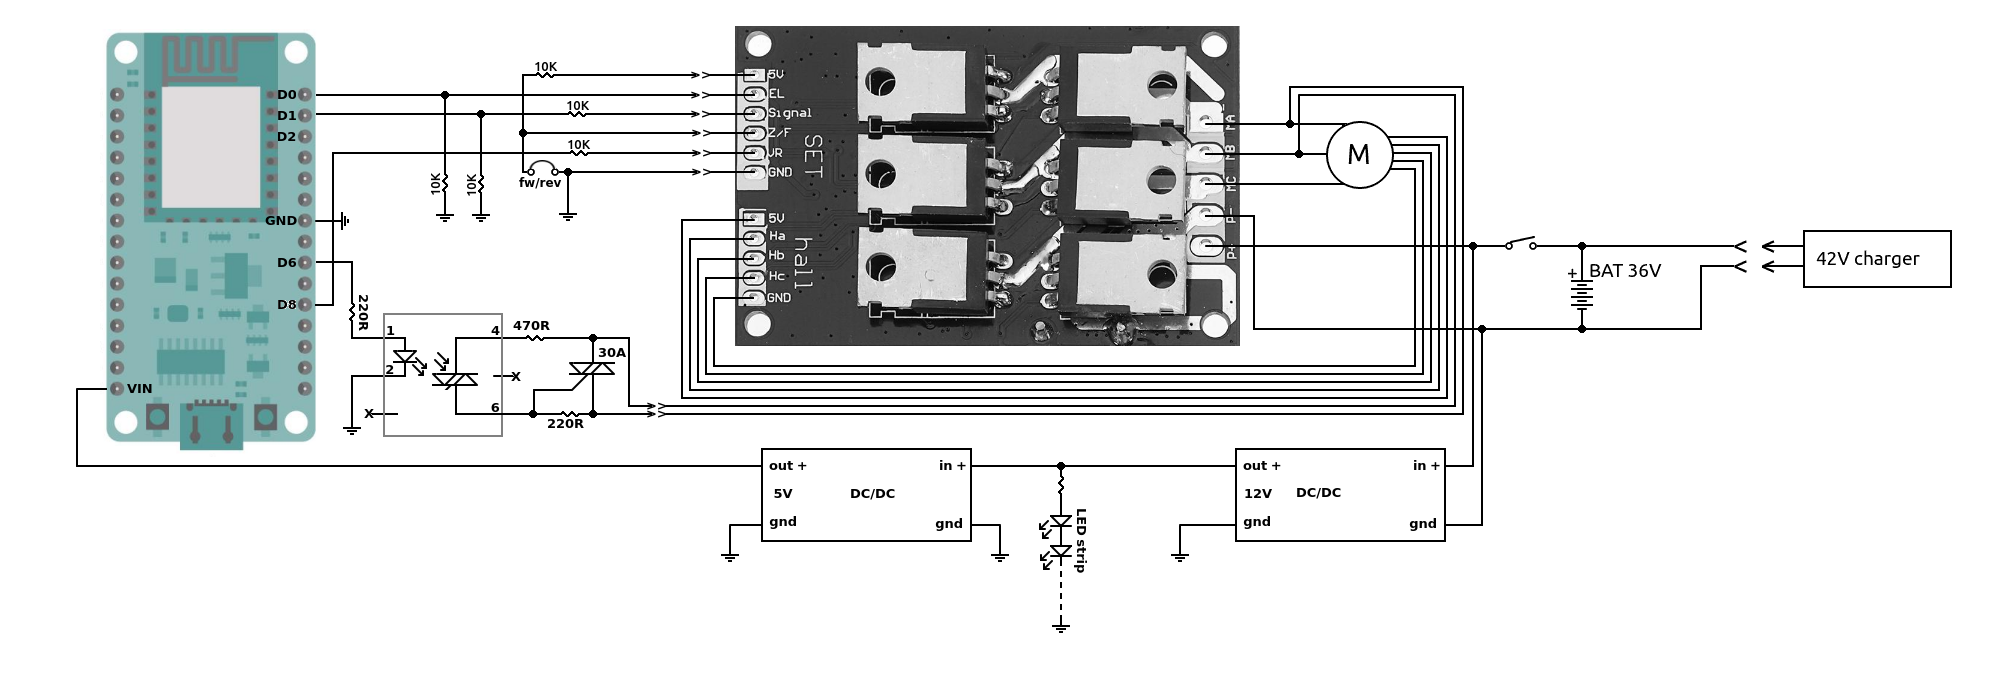
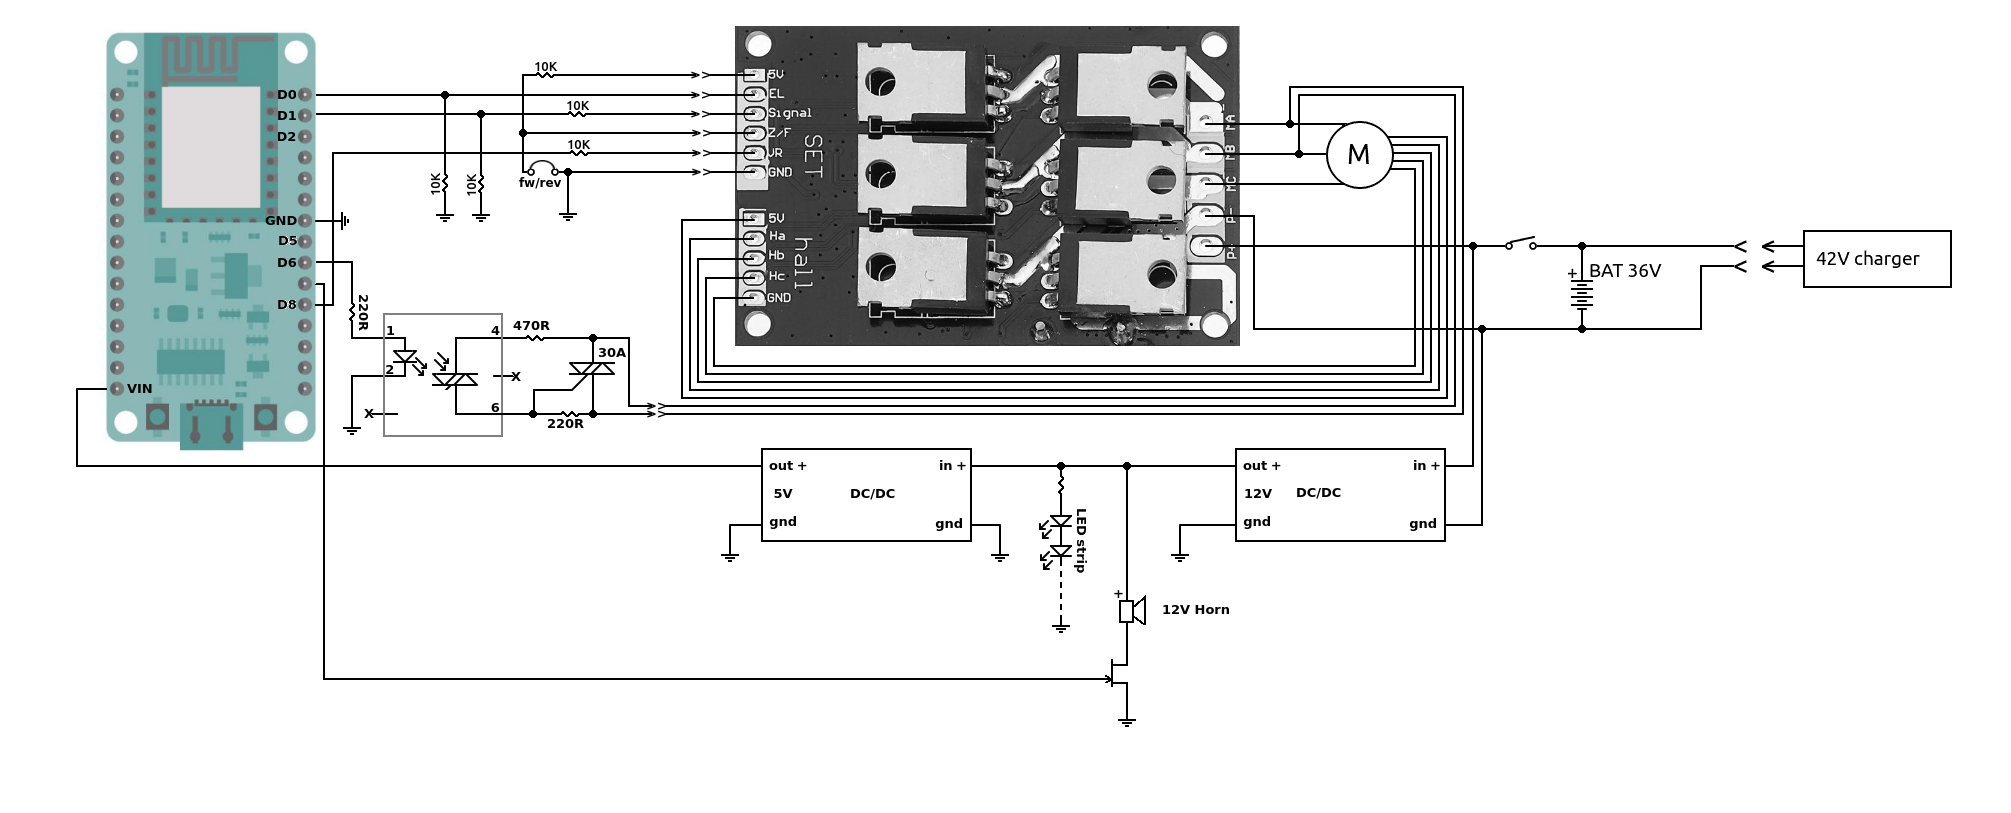
Finishe honk support

diff --git a/SkateRcvCtrl/bldcMotor.cpp b/SkateRcvCtrl/bldcMotor.cpp
@@ -31,12 +31,13 @@ static volatile uint32_t honkTimestamp = 0;
 static void processHonkRequest(){ 
 
   if(honkTimestamp > 0){
-    /* TODO: Activate honk pin here */
-
+    digitalWrite(PIN_HONK, HIGH); 
     
     if((millis() - honkTimestamp) > HONK_DURATION){
       honkTimestamp = 0;
     }
+  }else{
+    digitalWrite(PIN_HONK, LOW); 
   }
 }
 
@@ -120,6 +121,9 @@ void BLDCM_init(void)
 
   pinMode(PIN_BRAKE, OUTPUT);
   digitalWrite(PIN_BRAKE, LOW); 
+
+  pinMode(PIN_HONK, OUTPUT);
+  digitalWrite(PIN_HONK, LOW); 
   
   pinMode(PIN_EL, OUTPUT);
   digitalWrite(PIN_EL, HIGH);

diff --git a/SkateRcvCtrl/config.h b/SkateRcvCtrl/config.h
@@ -26,6 +26,7 @@
 #define PIN_TAHO                (D1) 
 #define PIN_CMD                 (D8)  // Do not use D2 for PWM. It is close to the oscillator and causes connection drop.
 #define PIN_BRAKE               (D6) 
+#define PIN_HONK                (D5)
 
 #define MINIMUM_SPEED_RPM       (120ul)   /* 2Rev per second => ((90mm*3.14*2)/1000)mps ~ 2kmph */
 #define HAL_TICKS_PER_REV       (40)    /* hal ticks per revolution */
